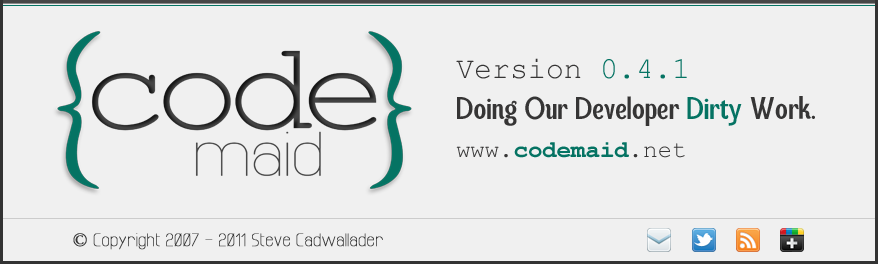
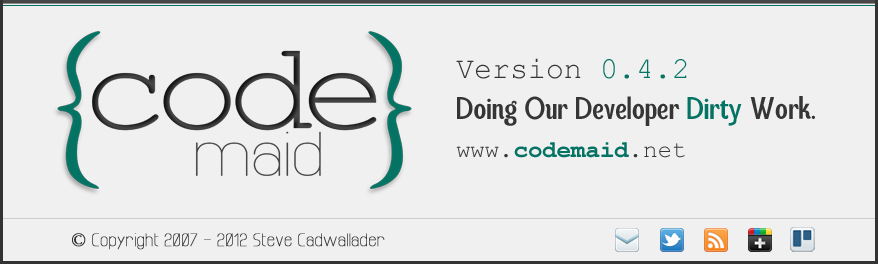
Add Trello link to about dialog.

Changed region(s): [[0.6765, 0.8485, 0.9533, 0.9697], [0.0615, 0.8788, 0.4305, 0.9394], [0.7688, 0.2121, 0.7995, 0.303]]

diff --git a/CodeMaid/Dialogs/AboutForm.xaml b/CodeMaid/Dialogs/AboutForm.xaml
@@ -61,16 +61,19 @@
         <Button Canvas.Left="456" Canvas.Top="142" Height="16" Width="229" Style="{StaticResource underlineLinkButton}"
                 Click="OnWebsiteLinkClick" />
 
-        <Button Canvas.Left="647" Canvas.Top="228" Height="24" Width="24" Style="{StaticResource iconLinkButton}"
+        <Button Canvas.Left="615" Canvas.Top="228" Height="24" Width="24" Style="{StaticResource iconLinkButton}"
                 Click="OnEmailLinkClick" />
 
-        <Button Canvas.Left="692" Canvas.Top="228" Height="24" Width="24" Style="{StaticResource iconLinkButton}"
+        <Button Canvas.Left="660" Canvas.Top="228" Height="24" Width="24" Style="{StaticResource iconLinkButton}"
                 Click="OnTwitterLinkClick" />
 
-        <Button Canvas.Left="736" Canvas.Top="228" Height="24" Width="24" Style="{StaticResource iconLinkButton}"
+        <Button Canvas.Left="704" Canvas.Top="228" Height="24" Width="24" Style="{StaticResource iconLinkButton}"
                 Click="OnRSSLinkClick" />
 
-        <Button Canvas.Left="780" Canvas.Top="228" Height="24" Width="24" Style="{StaticResource iconLinkButton}"
+        <Button Canvas.Left="748" Canvas.Top="228" Height="24" Width="24" Style="{StaticResource iconLinkButton}"
                 Click="OnGooglePlusLinkClick" />
+
+        <Button Canvas.Left="790" Canvas.Top="228" Height="24" Width="24" Style="{StaticResource iconLinkButton}"
+                Click="OnTrelloLinkClick" />
     </Canvas>
 </UserControl>

diff --git a/CodeMaid/Dialogs/AboutForm.xaml.cs b/CodeMaid/Dialogs/AboutForm.xaml.cs
@@ -86,6 +86,16 @@ namespace SteveCadwallader.CodeMaid.Dialogs
             LaunchLink(@"https://plus.google.com/u/0/104818751344933095922/");
         }
 
+        /// <summary>
+        /// Called when the Trello link is clicked.
+        /// </summary>
+        /// <param name="sender">The sender.</param>
+        /// <param name="e">The <see cref="System.Windows.RoutedEventArgs"/> instance containing the event data.</param>
+        private void OnTrelloLinkClick(object sender, RoutedEventArgs e)
+        {
+            LaunchLink(@"https://trello.com/board/feature-ideas/4f6e6dcc255ed1e9085b8665");
+        }
+
         #endregion Event Handlers
 
         #region Methods
